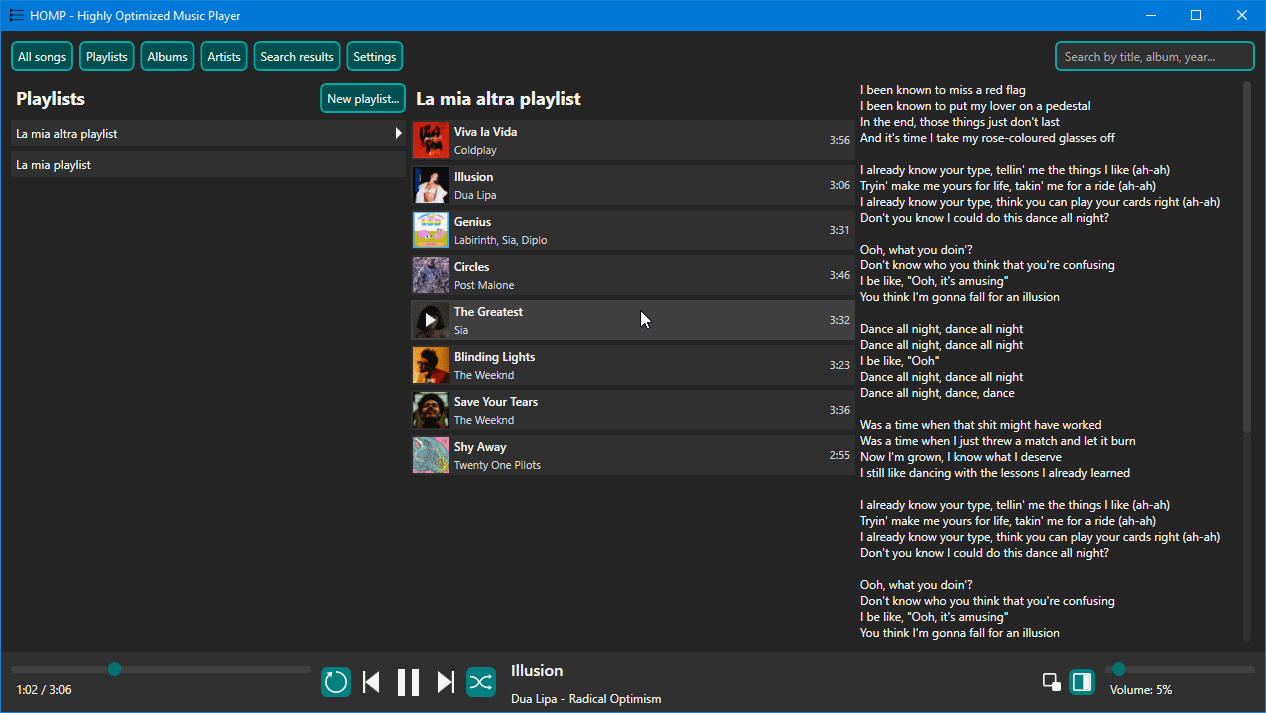
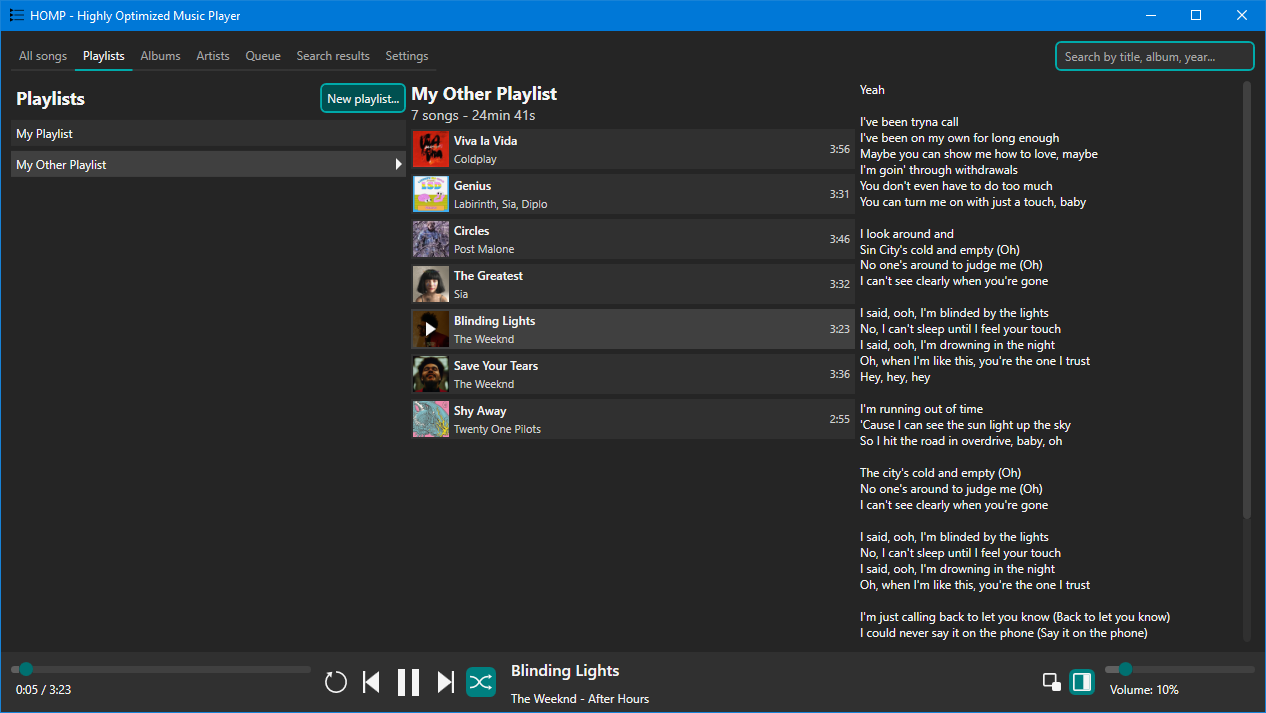
Update projects and HOMP image

diff --git a/index.html b/index.html
@@ -53,6 +53,14 @@
                     È ancora in sviluppo e la repository Github è al momento privata.</p>
             </div>
             <div class="project-card">
+                <p>ClocSharp</p>
+                <p>Programma CLI per contare le righe di codice di un progetto scritto in C#.<br>
+                    Conta il numero di file di cui contare le righe, e il conteggio è suddiviso per tipo di file.<br>
+                    Supporta l'esclusione di cartelle specifiche dal conteggio, la personalizzazione del pattern dei file da processare e output verboso.<br>
+                    Inoltre è progettato per essere multi-threaded e si può cambiare la quantità di thread che verranno usati per il conteggio.<br>
+                    Si può trovare su Github <a href="https://github.com/SchiavoAnto/ClocSharp">qui</a>.</p>
+            </div>
+            <div class="project-card">
                 <p>Leeze.js</p>
                 <p>Mini-libreria in JavaScript per creare pagine Web semplici ma con un minimo di reattività.<br>
                     Fa uso di attributi HTML custom per gestire i cambiamenti di stato.<br>
